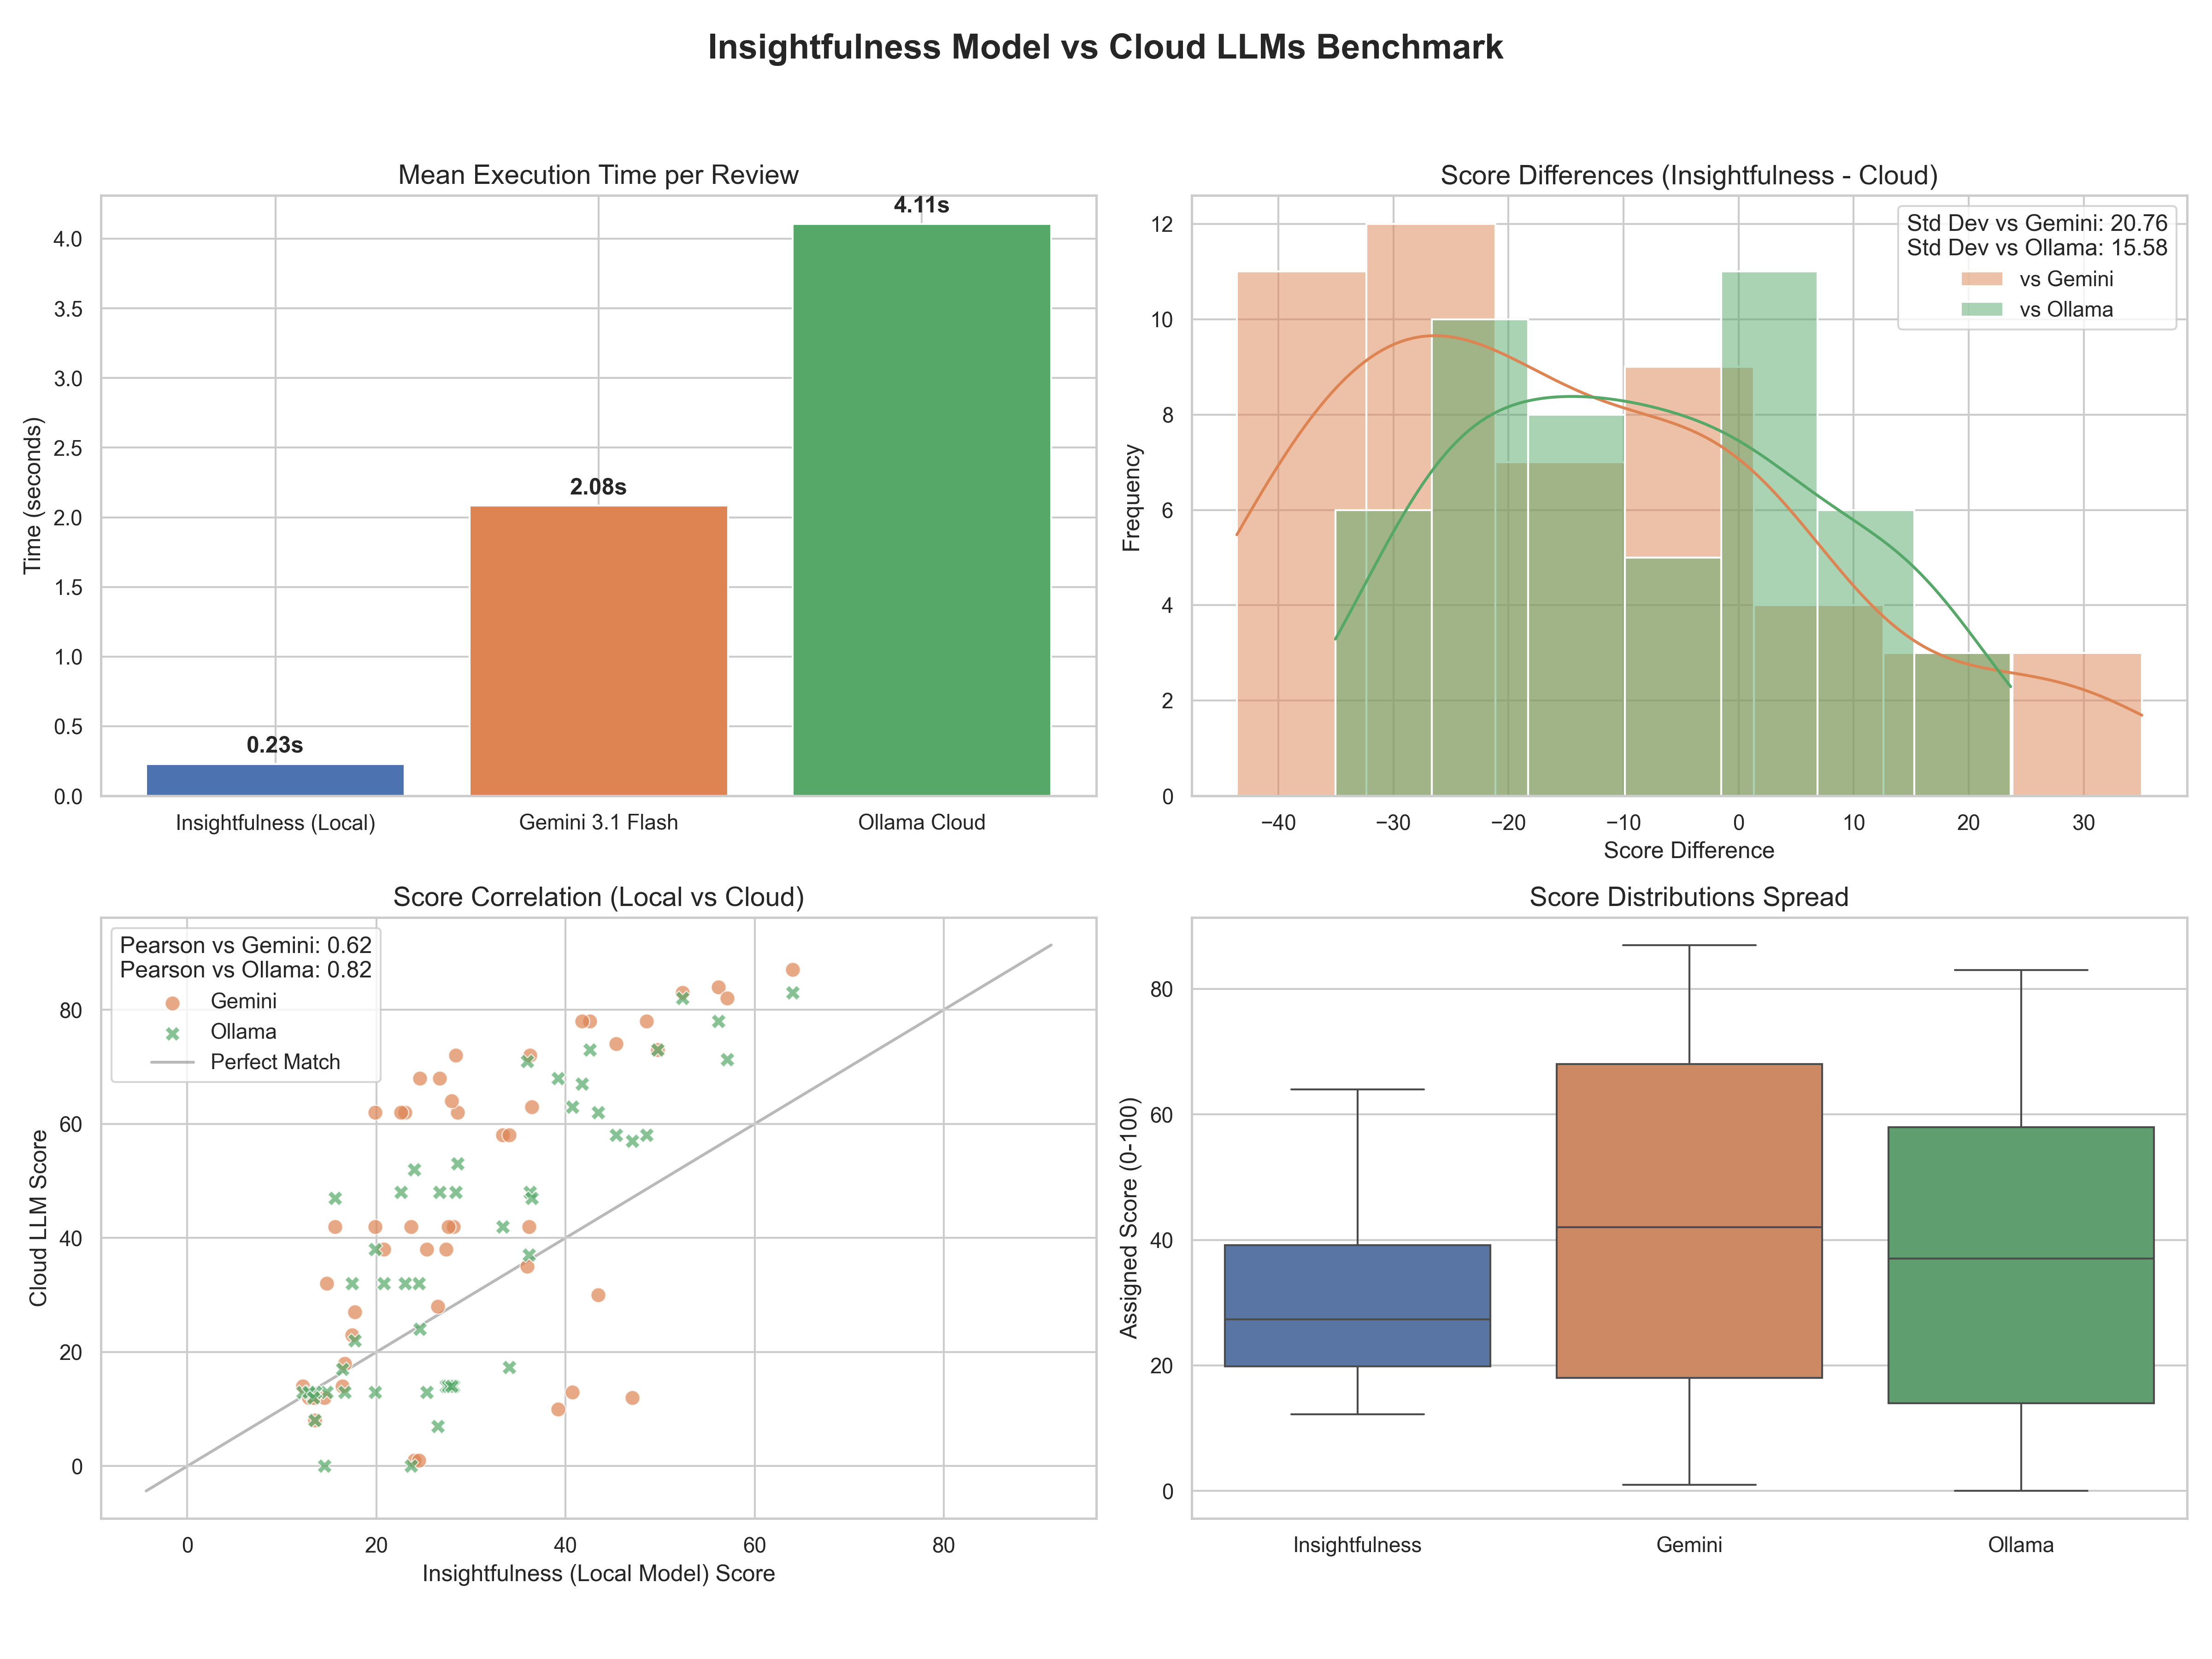
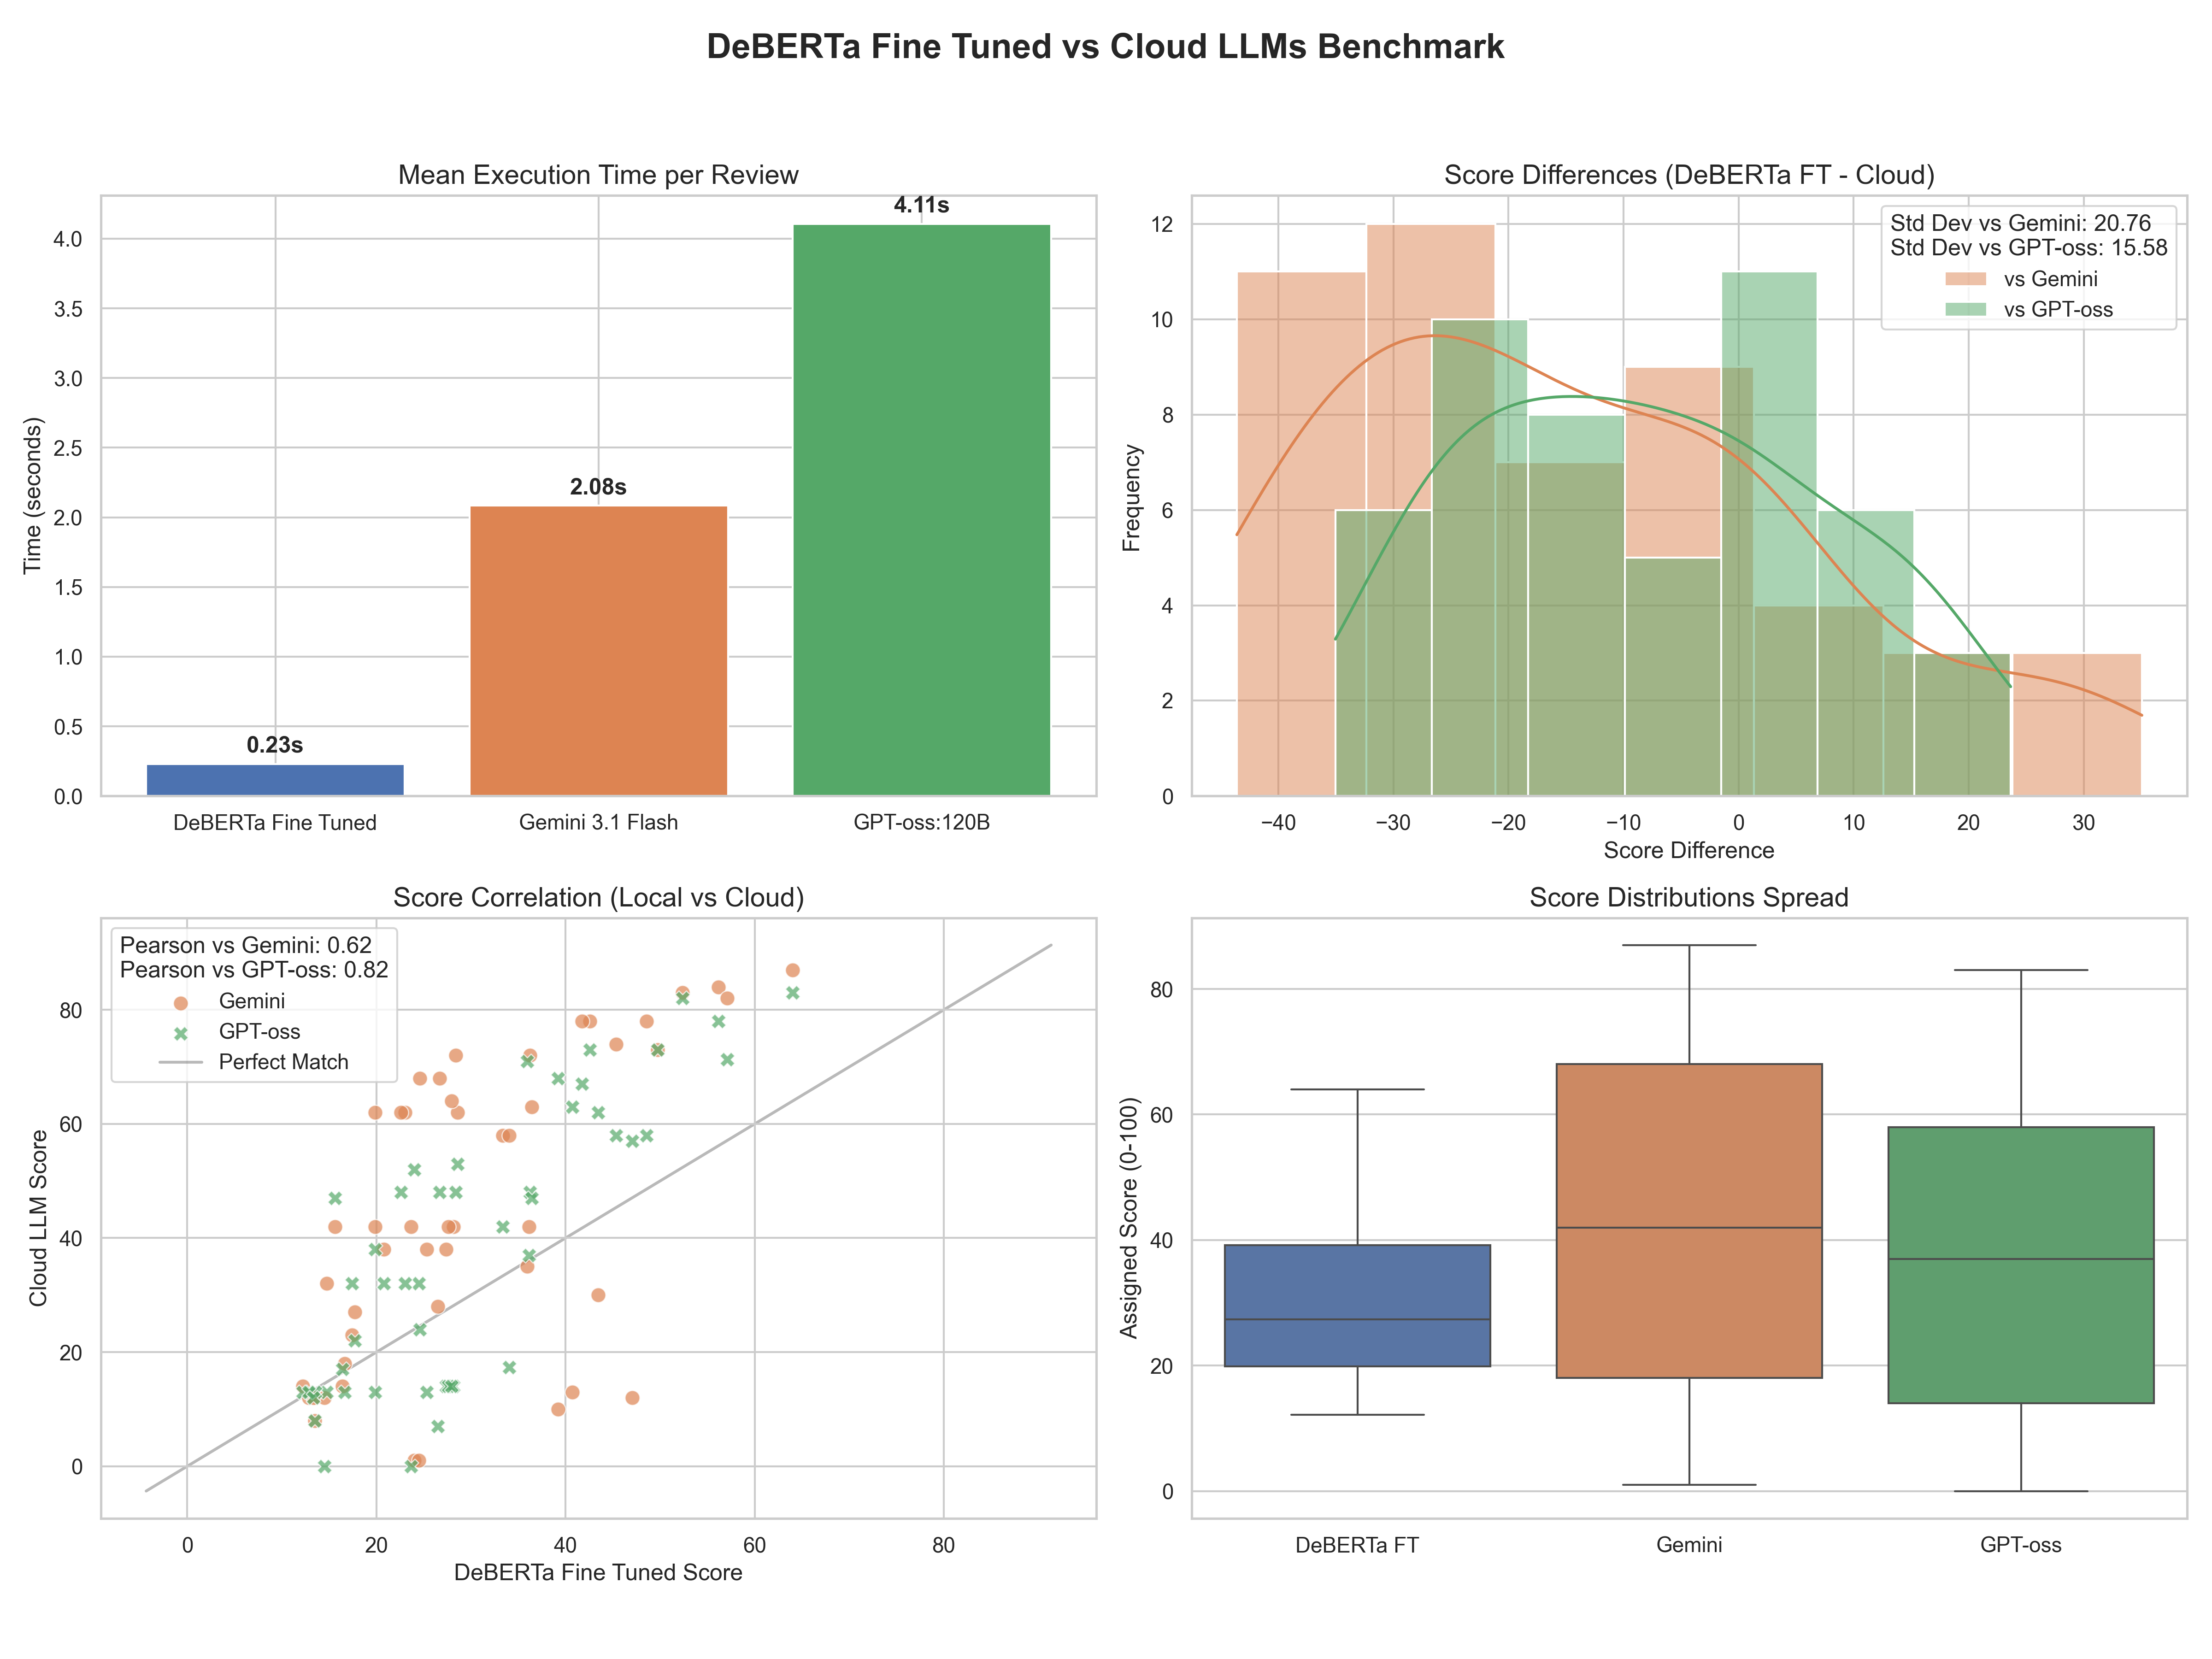
fix: ollama and deberta name changes in plot_benchmark.py

diff --git a/backend/comparison/plot_benchmark.py b/backend/comparison/plot_benchmark.py
@@ -23,14 +23,14 @@ def plot_benchmark_results(csv_path: str):
     # Stile generale
     sns.set_theme(style="whitegrid", palette="muted")
     fig, axes = plt.subplots(2, 2, figsize=(16, 12))
-    fig.suptitle("Insightfulness Model vs Cloud LLMs Benchmark", fontsize=18, fontweight='bold')
+    fig.suptitle("DeBERTa Fine Tuned vs Cloud LLMs Benchmark", fontsize=18, fontweight='bold')
 
     # ---------------------------------------------------------
     # 1. Mean Average Time (Bar Plot)
     # ---------------------------------------------------------
     ax_time = axes[0, 0]
     avg_times = [df['time_insight'].mean(), df['time_gemini'].mean(), df['time_ollama'].mean()]
-    models = ['Insightfulness (Local)', 'Gemini 3.1 Flash', 'Ollama Cloud']
+    models = ['DeBERTa Fine Tuned', 'Gemini 3.1 Flash', 'GPT-oss:120B']
     colors = ['#4c72b0', '#dd8452', '#55a868']
     
     bars = ax_time.bar(models, avg_times, color=colors)
@@ -52,16 +52,16 @@ def plot_benchmark_results(csv_path: str):
     diff_ollama = df['score_insight'] - df['score_ollama']
     
     sns.histplot(diff_gemini, kde=True, ax=ax_diff, color='#dd8452', label='vs Gemini', alpha=0.5)
-    sns.histplot(diff_ollama, kde=True, ax=ax_diff, color='#55a868', label='vs Ollama', alpha=0.5)
+    sns.histplot(diff_ollama, kde=True, ax=ax_diff, color='#55a868', label='vs GPT-oss', alpha=0.5)
     
     # Calcola deviazione standard e media della differenza
     std_gemini = diff_gemini.std()
     std_ollama = diff_ollama.std()
     
-    ax_diff.set_title('Score Differences (Insightfulness - Cloud)', fontsize=14)
+    ax_diff.set_title('Score Differences (DeBERTa FT - Cloud)', fontsize=14)
     ax_diff.set_xlabel('Score Difference')
     ax_diff.set_ylabel('Frequency')
-    ax_diff.legend(title=f"Std Dev vs Gemini: {std_gemini:.2f}\nStd Dev vs Ollama: {std_ollama:.2f}")
+    ax_diff.legend(title=f"Std Dev vs Gemini: {std_gemini:.2f}\nStd Dev vs GPT-oss: {std_ollama:.2f}")
 
     # ---------------------------------------------------------
     # 3. Correlation Scatter Plot
@@ -69,7 +69,7 @@ def plot_benchmark_results(csv_path: str):
     ax_corr = axes[1, 0]
     
     sns.scatterplot(x='score_insight', y='score_gemini', data=df, ax=ax_corr, color='#dd8452', label='Gemini', s=60, alpha=0.7)
-    sns.scatterplot(x='score_insight', y='score_ollama', data=df, ax=ax_corr, color='#55a868', label='Ollama', s=60, alpha=0.7, marker='X')
+    sns.scatterplot(x='score_insight', y='score_ollama', data=df, ax=ax_corr, color='#55a868', label='GPT-oss', s=60, alpha=0.7, marker='X')
     
     # Linea perfetta concordanza
     lims = [
@@ -83,9 +83,9 @@ def plot_benchmark_results(csv_path: str):
     corr_ollama = df['score_insight'].corr(df['score_ollama'])
     
     ax_corr.set_title('Score Correlation (Local vs Cloud)', fontsize=14)
-    ax_corr.set_xlabel('Insightfulness (Local Model) Score')
+    ax_corr.set_xlabel('DeBERTa Fine Tuned Score')
     ax_corr.set_ylabel('Cloud LLM Score')
-    ax_corr.legend(title=f"Pearson vs Gemini: {corr_gemini:.2f}\nPearson vs Ollama: {corr_ollama:.2f}")
+    ax_corr.legend(title=f"Pearson vs Gemini: {corr_gemini:.2f}\nPearson vs GPT-oss: {corr_ollama:.2f}")
 
     # ---------------------------------------------------------
     # 4. Boxplot of Scores (Distribution Spread)
@@ -93,9 +93,9 @@ def plot_benchmark_results(csv_path: str):
     ax_box = axes[1, 1]
     
     score_data = pd.DataFrame({
-        'Insightfulness': df['score_insight'],
+        'DeBERTa FT': df['score_insight'],
         'Gemini': df['score_gemini'],
-        'Ollama': df['score_ollama']
+        'GPT-oss': df['score_ollama']
     })
     
     sns.boxplot(data=score_data, ax=ax_box, palette=colors)